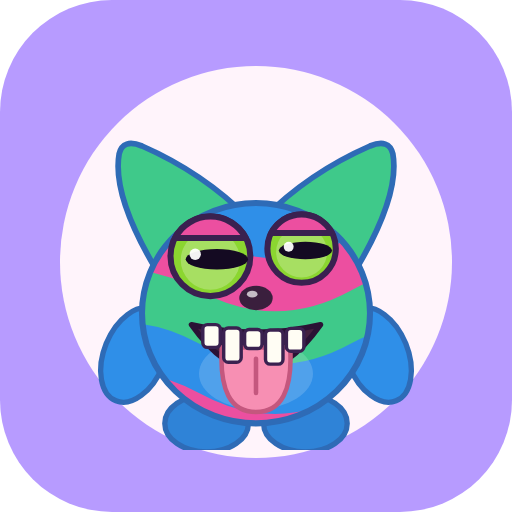
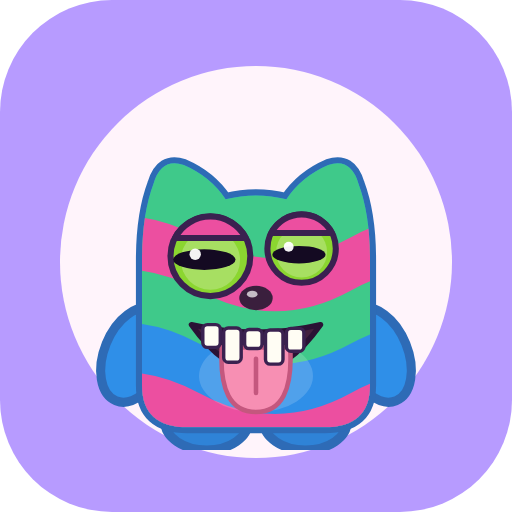
Smaller continuous ears and chunky plush body shapes
- Ears are now small, round-tipped and drawn as one outline with the head,
  so there is no dividing line where they join; bunny ears use the same
  technique
- Bodies are chunky plush "beans" with straight sides and big rounded
  corners, closer to the reference toys; fuzzy fur follows any shape
- Tie-dye now gives the mascot a green head and ears like the reference
- Refresh the app icon and bump the offline cache

Claude-Session: https://claude.ai/code/session_01RZmKGLQgreBuhhMmrFwpo5

Changed region(s): [[0.1875, 0.25, 0.8125, 0.875]]

diff --git a/js/avatars.js b/js/avatars.js
@@ -28,53 +28,92 @@ const dark = (c, t = 0.28) => mix(c, '#2a1740', t);
 const light = (c, t = 0.4) => mix(c, '#ffffff', t);
 
 const SHAPES = {
-  blob: { cx: 50, cy: 60, rx: 30, ry: 29 },
-  cat: { cx: 50, cy: 60, rx: 30, ry: 29 },
-  bunny: { cx: 50, cy: 62, rx: 27, ry: 30 },
-  horn: { cx: 50, cy: 60, rx: 30, ry: 29 },
-  tall: { cx: 50, cy: 58, rx: 25, ry: 33 },
+  blob: { cx: 50, cy: 60, rx: 30, ry: 30 },
+  cat: { cx: 50, cy: 60, rx: 30, ry: 30 },
+  bunny: { cx: 50, cy: 60, rx: 26, ry: 30 },
+  horn: { cx: 50, cy: 60, rx: 30, ry: 30 },
+  tall: { cx: 50, cy: 57, rx: 25, ry: 33 },
   round: { cx: 50, cy: 64, rx: 33, ry: 26 },
 };
 
-function bodyPath(sh, fuzzy, rnd) {
-  const { cx, cy, rx, ry } = sh;
-  if (!fuzzy) return `M${cx - rx} ${cy}A${rx} ${ry} 0 1 1 ${cx + rx} ${cy}A${rx} ${ry} 0 1 1 ${cx - rx} ${cy}Z`;
-  const N = 48;
-  let d = '';
-  for (let i = 0; i < N; i++) {
-    const a = (i / N) * Math.PI * 2;
-    const k = i % 2 === 0 ? 1.07 + rnd() * 0.08 : 0.97;
-    d += `${i ? 'L' : 'M'}${(cx + rx * k * Math.cos(a)).toFixed(1)} ${(cy + ry * k * Math.sin(a)).toFixed(1)}`;
-  }
-  return d + 'Z';
+// A chunky plush "bean": straight sides and big rounded corners, like the reference toys.
+function beanD(sh, rt, rb) {
+  const x0 = sh.cx - sh.rx, x1 = sh.cx + sh.rx, y0 = sh.cy - sh.ry, y1 = sh.cy + sh.ry;
+  return `M${x0 + rb} ${y1}Q${x0} ${y1} ${x0} ${y1 - rb}L${x0} ${y0 + rt}Q${x0} ${y0} ${x0 + rt} ${y0}L${x1 - rt} ${y0}Q${x1} ${y0} ${x1} ${y0 + rt}L${x1} ${y1 - rb}Q${x1} ${y1} ${x1 - rb} ${y1}Z`;
+}
+// Cats: the head and its two small, round-tipped ears are ONE outline.
+const CAT_D = 'M32 90Q20 90 20 79L20 46Q20 34 23 26Q25 19 31 21Q38 24 42 30Q50 28 58 30Q62 24 69 21Q75 19 77 26Q80 34 80 46L80 79Q80 90 68 90Z';
+
+function bodyD(spec) {
+  const sh = SHAPES[spec.shape] || SHAPES.blob;
+  if (spec.shape === 'cat') return CAT_D;
+  if (spec.shape === 'round') return beanD(sh, 15, 12);
+  if (spec.shape === 'tall') return beanD(sh, 15, 8);
+  return beanD(sh, 17, 11);
 }
 
-function ears(spec, sh) {
-  const c = spec.c, edge = dark(c, 0.3), inner = light(c, 0.55);
+// A spiky "fur" outline that follows any shape: sample the smooth path, push every other point outwards.
+let measurer = null;
+function furD(d, rnd) {
+  if (typeof document === 'undefined') return d;
+  if (!measurer || !measurer.isConnected) {
+    const svg = document.createElementNS('http://www.w3.org/2000/svg', 'svg');
+    svg.setAttribute('width', '0');
+    svg.setAttribute('height', '0');
+    svg.style.cssText = 'position:absolute;visibility:hidden;pointer-events:none';
+    measurer = document.createElementNS('http://www.w3.org/2000/svg', 'path');
+    svg.append(measurer);
+    document.body.append(svg);
+  }
+  measurer.setAttribute('d', d);
+  const len = measurer.getTotalLength();
+  const N = 84;
+  const pts = [];
+  for (let i = 0; i < N; i++) { const p = measurer.getPointAtLength((len * i) / N); pts.push([p.x, p.y]); }
+  const mx = pts.reduce((a, p) => a + p[0], 0) / N;
+  const my = pts.reduce((a, p) => a + p[1], 0) / N;
+  let out = '';
+  pts.forEach((p, i) => {
+    const a = pts[(i + N - 1) % N], b = pts[(i + 1) % N];
+    let nx = b[1] - a[1], ny = a[0] - b[0];
+    const l = Math.hypot(nx, ny) || 1;
+    nx /= l; ny /= l;
+    if ((p[0] - mx) * nx + (p[1] - my) * ny < 0) { nx = -nx; ny = -ny; }
+    const amp = i % 2 === 0 ? 2 + rnd() * 2.4 : -0.4;
+    out += `${i ? 'L' : 'M'}${(p[0] + nx * amp).toFixed(1)} ${(p[1] + ny * amp).toFixed(1)}`;
+  });
+  return out + 'Z';
+}
+
+// Extra ears that are drawn together with the body (so there is no line where they join).
+function earParts(spec, sh) {
   const top = sh.cy - sh.ry;
-  switch (spec.shape) {
-    case 'cat':
-      { // wide, flared, soft-tipped cat ears that grow out of the corners of the head (no inner patch)
-        const ec = spec.fur === 'tie' ? (spec.c3 || '#3fc98a') : c;
-        return `<path d="M24 ${top + 18} Q12 ${top - 2} 14 ${top - 13} Q15 ${top - 17} 20 ${top - 15} Q36 ${top - 8} 48 ${top + 4}Z" fill="${ec}" stroke="${edge}" stroke-width="1.5" stroke-linejoin="round"/>
-        <path d="M76 ${top + 18} Q88 ${top - 2} 86 ${top - 13} Q85 ${top - 17} 80 ${top - 15} Q64 ${top - 8} 52 ${top + 4}Z" fill="${ec}" stroke="${edge}" stroke-width="1.5" stroke-linejoin="round"/>`;
-      }
-    case 'bunny':
-      return `<ellipse cx="37" cy="${top - 6}" rx="7.5" ry="19" transform="rotate(-10 37 ${top - 6})" fill="${c}" stroke="${edge}" stroke-width="1.5"/>
-        <ellipse cx="63" cy="${top - 6}" rx="7.5" ry="19" transform="rotate(10 63 ${top - 6})" fill="${c}" stroke="${edge}" stroke-width="1.5"/>
-        <ellipse cx="37" cy="${top - 5}" rx="3.5" ry="13" transform="rotate(-10 37 ${top - 5})" fill="${inner}"/>
-        <ellipse cx="63" cy="${top - 5}" rx="3.5" ry="13" transform="rotate(10 63 ${top - 5})" fill="${inner}"/>`;
-    case 'horn':
-      return `<path d="M27 ${top + 10} L21 ${top - 10} L42 ${top + 2}Z M73 ${top + 10} L79 ${top - 10} L58 ${top + 2}Z" fill="#ffe08a" stroke="#c99a1f" stroke-width="1.5" stroke-linejoin="round"/>`;
-    default:
-      return '';
+  if (spec.shape === 'bunny') {
+    return [
+      (st) => `<ellipse cx="38" cy="${top - 5}" rx="7" ry="17" transform="rotate(-9 38 ${top - 5})" ${st}/>`,
+      (st) => `<ellipse cx="62" cy="${top - 5}" rx="7" ry="17" transform="rotate(9 62 ${top - 5})" ${st}/>`,
+    ];
   }
+  return [];
 }
 
+function innerEars(spec, sh) {
+  if (spec.shape !== 'bunny') return '';
+  const top = sh.cy - sh.ry, inner = light(spec.c, 0.55);
+  return `<ellipse cx="38" cy="${top - 4}" rx="3.2" ry="11.5" transform="rotate(-9 38 ${top - 4})" fill="${inner}"/><ellipse cx="62" cy="${top - 4}" rx="3.2" ry="11.5" transform="rotate(9 62 ${top - 4})" fill="${inner}"/>`;
+}
+
+function horns(spec, sh) {
+  if (spec.shape !== 'horn') return '';
+  const top = sh.cy - sh.ry;
+  return `<path d="M27 ${top + 10} L21 ${top - 10} L42 ${top + 2}Z M73 ${top + 10} L79 ${top - 10} L58 ${top + 2}Z" fill="#ffe08a" stroke="#c99a1f" stroke-width="1.5" stroke-linejoin="round"/>`;
+}
+
+// Tie-dye: a green head and ears, a pink band under the eyes, then green, blue and pink again.
 function tieBands(spec) {
   const w = (y) => `M-5 ${y} Q15 ${y - 11} 35 ${y} T75 ${y} T115 ${y} V110 H-5Z`;
   const c2 = spec.c2 || '#ec4fa0', c3 = spec.c3 || '#3fc98a';
-  return `<path d="${w(40)}" fill="${c2}"/><path d="${w(54)}" fill="${c3}"/><path d="${w(68)}" fill="${spec.c}"/><path d="${w(81)}" fill="${c2}"/>`;
+  return `<path d="${w(15)}" fill="${c3}"/><path d="${w(40)}" fill="${c2}"/><path d="${w(54)}" fill="${c3}"/><path d="${w(68)}" fill="${spec.c}"/><path d="${w(81)}" fill="${c2}"/>`;
 }
 
 function teethSvg(kind, my, mx0, mx1, lower = true) {
@@ -185,26 +224,32 @@ function monster(spec, opts = {}) {
   const rnd = mulberry(fnv(JSON.stringify(spec)) + (opts.seed || 0));
   const sh = SHAPES[spec.shape] || SHAPES.blob;
   const c = spec.c;
-  const edge = dark(c, 0.3);
-  const smooth = bodyPath(sh, false, rnd);
-  const furry = bodyPath(sh, true, rnd);
+  const fuzzy = spec.fur === 'fuzzy';
+  const edge = dark(c, fuzzy ? 0.22 : 0.3);
+  const smoothD = bodyD(spec);
+  const furryD = fuzzy || spec.fur === 'split' ? furD(smoothD, rnd) : smoothD;
+  const ears = earParts(spec, sh);
+  const parts = [(st) => `<path d="${fuzzy ? furryD : smoothD}" ${st}/>`, ...ears];
   const limb = spec.fur === 'split' ? spec.c2 : c;
+  const limbStyle = `stroke="${edge}" stroke-width="2.4"`;
   let s = '';
   // legs & arms sit behind the body
-  s += `<ellipse cx="${sh.cx - 13}" cy="${sh.cy + sh.ry}" rx="11" ry="7.5" fill="${dark(limb, 0.1)}" stroke="${edge}" stroke-width="1.4"/><ellipse cx="${sh.cx + 13}" cy="${sh.cy + sh.ry}" rx="11" ry="7.5" fill="${dark(limb, 0.1)}" stroke="${edge}" stroke-width="1.4"/>`;
-  s += `<ellipse cx="${sh.cx - sh.rx - 2}" cy="${sh.cy + 11}" rx="8" ry="13" transform="rotate(22 ${sh.cx - sh.rx - 2} ${sh.cy + 11})" fill="${c}" stroke="${edge}" stroke-width="1.4"/><ellipse cx="${sh.cx + sh.rx + 2}" cy="${sh.cy + 11}" rx="8" ry="13" transform="rotate(-22 ${sh.cx + sh.rx + 2} ${sh.cy + 11})" fill="${limb}" stroke="${edge}" stroke-width="1.4"/>`;
+  s += `<ellipse cx="${sh.cx - 13}" cy="${sh.cy + sh.ry - 1.5}" rx="11" ry="7.5" fill="${dark(limb, 0.1)}" ${limbStyle}/><ellipse cx="${sh.cx + 13}" cy="${sh.cy + sh.ry - 1.5}" rx="11" ry="7.5" fill="${dark(limb, 0.1)}" ${limbStyle}/>`;
+  s += `<ellipse cx="${sh.cx - sh.rx - 2}" cy="${sh.cy + 11}" rx="8" ry="13" transform="rotate(22 ${sh.cx - sh.rx - 2} ${sh.cy + 11})" fill="${c}" ${limbStyle}/><ellipse cx="${sh.cx + sh.rx + 2}" cy="${sh.cy + 11}" rx="8" ry="13" transform="rotate(-22 ${sh.cx + sh.rx + 2} ${sh.cy + 11})" fill="${limb}" ${limbStyle}/>`;
   if ((spec.acc || []).includes('cane')) s += `<path d="M90 ${sh.cy + 4} L91 98" stroke="#8a5a35" stroke-width="4.2" stroke-linecap="round"/><path d="M83 ${sh.cy + 4} Q90 ${sh.cy - 6} 95 ${sh.cy + 4}" fill="none" stroke="#8a5a35" stroke-width="4.2" stroke-linecap="round"/>`;
-  s += ears(spec, sh);
+  s += horns(spec, sh);
 
+  // 1) one outline around the body and its ears together...
+  const ow = fuzzy ? 2.4 : 3.2;
+  s += parts.map((f) => f(`fill="${edge}" stroke="${edge}" stroke-width="${ow}" stroke-linejoin="round"`)).join('');
+  // 2) ...then one fill on top, so there is no line where an ear joins the head
+  s += parts.map((f) => f(`fill="${c}"`)).join('');
   if (spec.fur === 'tie') {
-    s += `<clipPath id="t${id}"><path d="${smooth}"/></clipPath><path d="${smooth}" fill="${c}"/><g clip-path="url(#t${id})">${tieBands(spec)}</g><path d="${smooth}" fill="none" stroke="${edge}" stroke-width="1.6"/>`;
+    s += `<clipPath id="t${id}">${parts.map((f) => f('')).join('')}</clipPath><g clip-path="url(#t${id})">${tieBands(spec)}</g>`;
   } else if (spec.fur === 'split') {
-    s += `<path d="${smooth}" fill="${c}" stroke="${edge}" stroke-width="1.6"/><clipPath id="r${id}"><rect x="50" y="0" width="60" height="110"/></clipPath><g clip-path="url(#r${id})"><path d="${furry}" fill="${spec.c2}" stroke="${spec.c2}" stroke-width="2" stroke-linejoin="round"/></g><path d="M50 ${sh.cy - sh.ry} V${sh.cy + sh.ry}" stroke="${dark(spec.c2, 0.4)}" stroke-width="1.6" stroke-dasharray="3 2.4"/>`;
-  } else if (spec.fur === 'fuzzy') {
-    s += `<path d="${furry}" fill="${c}" stroke="${c}" stroke-width="2" stroke-linejoin="round"/><path d="${furry}" fill="none" stroke="${edge}" stroke-width=".7" stroke-linejoin="round" opacity=".55"/>`;
-  } else {
-    s += `<path d="${smooth}" fill="${c}" stroke="${edge}" stroke-width="1.6"/>`;
+    s += `<clipPath id="r${id}"><rect x="50" y="0" width="60" height="110"/></clipPath><g clip-path="url(#r${id})"><path d="${furryD}" fill="${spec.c2}" stroke="${spec.c2}" stroke-width="2" stroke-linejoin="round"/>${ears.map((f) => f(`fill="${spec.c2}"`)).join('')}</g><path d="M50 ${sh.cy - sh.ry} V${sh.cy + sh.ry}" stroke="${dark(spec.c2, 0.4)}" stroke-width="1.6" stroke-dasharray="3 2.4"/>`;
   }
+  s += innerEars(spec, sh);
   s += `<ellipse cx="${sh.cx}" cy="${sh.cy + sh.ry * 0.55}" rx="${sh.rx * 0.5}" ry="${sh.ry * 0.32}" fill="#fff" opacity=".16"/>`;
 
   const f = face(spec, sh, rnd, opts);

diff --git a/sw.js b/sw.js
@@ -1,6 +1,6 @@
 // Service worker: lets the app open offline once it has been loaded once.
 // Strategy: network first (so updates show up straight away), cache as fallback.
-const CACHE = 'gvf-v3';
+const CACHE = 'gvf-v4';
 const SHELL = [
   './', 'index.html', 'css/style.css', 'manifest.webmanifest',
   'js/app.js', 'js/words.js', 'js/avatars.js', 'js/audio.js', 'js/lesson.js', 'js/store.js',
